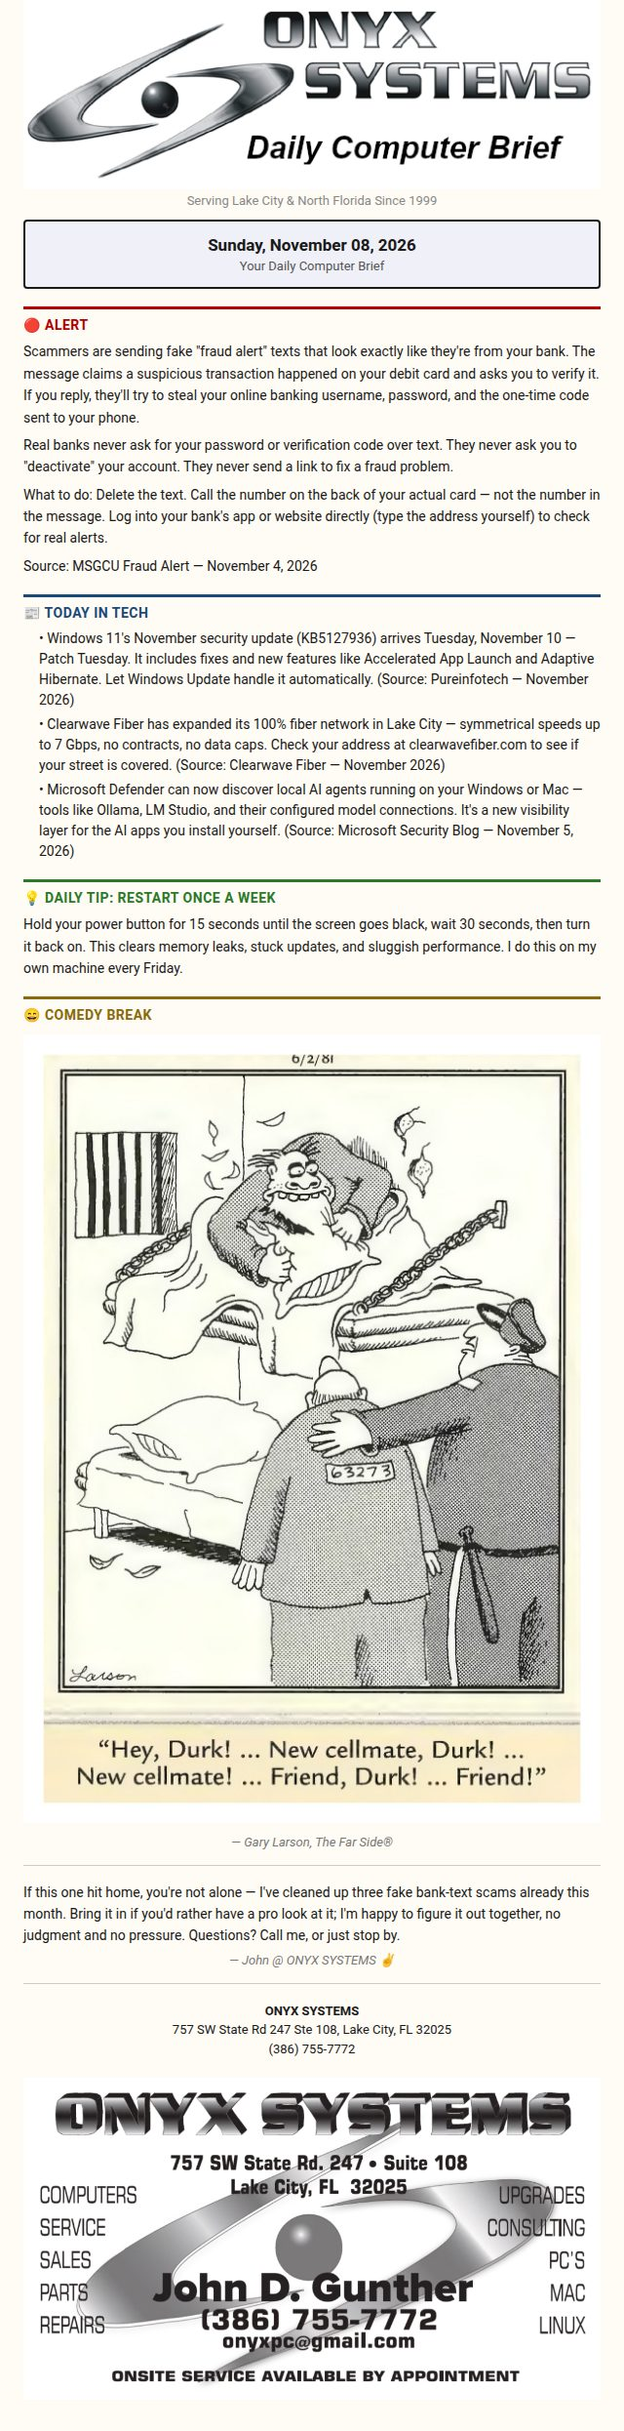
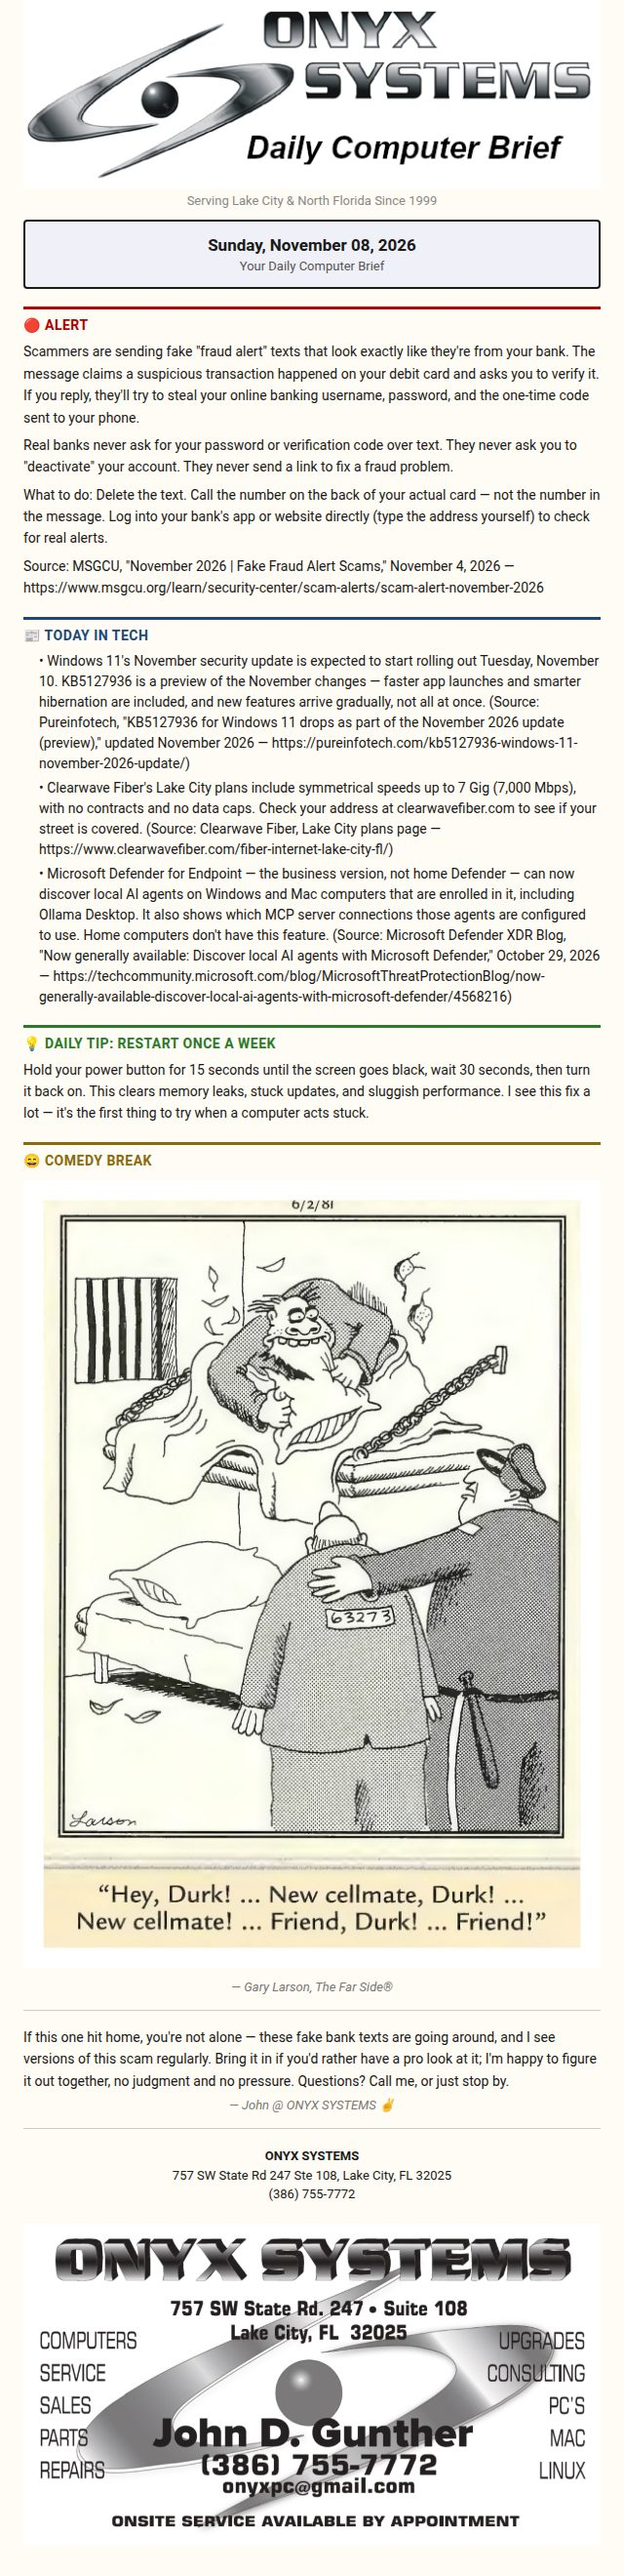
daily: 2026-11-08 brief + news/tips + widgets (+ build stamp)

diff --git a/newsletter.html b/newsletter.html
@@ -32,7 +32,7 @@
   .foot{padding:18px 28px;background:#16161A;color:#C9C2B6;font-size:13px;text-align:center}
   .foot a{color:var(--accent);text-decoration:none}
 </style>
-  <meta name="onyx-build" content="20261108">
+  <meta name="onyx-build" content="20261109">
 </head>
 <body>
 <article class="wrap doc">
@@ -47,19 +47,19 @@
     <p>Scammers are sending fake "fraud alert" texts that look exactly like they're from your bank. The message claims a suspicious transaction happened on your debit card and asks you to verify it. If you reply, they'll try to steal your online banking username, password, and the one-time code sent to your phone.
 Real banks never ask for your password or verification code over text. They never ask you to "deactivate" your account. They never send a link to fix a fraud problem.
 What to do: Delete the text. Call the number on the back of your actual card — not the number in the message. Log into your bank's app or website directly (type the address yourself) to check for real alerts.
-Source: MSGCU Fraud Alert — November 4, 2026</p>
+Source: MSGCU, "November 2026 | Fake Fraud Alert Scams," November 4, 2026 — https://www.msgcu.org/learn/security-center/scam-alerts/scam-alert-november-2026</p>
   </div>
   <div class="section">
     <h2>Today in Tech</h2>
     <ul>
-      <li>Windows 11's November security update (KB5127936) arrives Tuesday, November 10 — Patch Tuesday. It includes fixes and new features like Accelerated App Launch and Adaptive Hibernate. Let Windows Update handle it automatically. (Source: Pureinfotech — November 2026)</li>
-      <li>Clearwave Fiber has expanded its 100% fiber network in Lake City — symmetrical speeds up to 7 Gbps, no contracts, no data caps. Check your address at clearwavefiber.com to see if your street is covered. (Source: Clearwave Fiber — November 2026)</li>
-      <li>Microsoft Defender can now discover local AI agents running on your Windows or Mac — tools like Ollama, LM Studio, and their configured model connections. It's a new visibility layer for the AI apps you install yourself. (Source: Microsoft Security Blog — November 5, 2026)</li>
+      <li>Windows 11's November security update is expected to start rolling out Tuesday, November 10. KB5127936 is a preview of the November changes — faster app launches and smarter hibernation are included, and new features arrive gradually, not all at once. (Source: Pureinfotech, "KB5127936 for Windows 11 drops as part of the November 2026 update (preview)," updated November 2026 — https://pureinfotech.com/kb5127936-windows-11-november-2026-update/)</li>
+      <li>Clearwave Fiber's Lake City plans include symmetrical speeds up to 7 Gig (7,000 Mbps), with no contracts and no data caps. Check your address at clearwavefiber.com to see if your street is covered. (Source: Clearwave Fiber, Lake City plans page — https://www.clearwavefiber.com/fiber-internet-lake-city-fl/)</li>
+      <li>Microsoft Defender for Endpoint — the business version, not home Defender — can now discover local AI agents on Windows and Mac computers that are enrolled in it, including Ollama Desktop. It also shows which MCP server connections those agents are configured to use. Home computers don't have this feature. (Source: Microsoft Defender XDR Blog, "Now generally available: Discover local AI agents with Microsoft Defender," October 29, 2026 — https://techcommunity.microsoft.com/blog/MicrosoftThreatProtectionBlog/now-generally-available-discover-local-ai-agents-with-microsoft-defender/4568216)</li>
     </ul>
   </div>
   <div class="section tip">
     <h2>Daily Tip</h2>
-    <p>Hold your power button for 15 seconds until the screen goes black, wait 30 seconds, then turn it back on. This clears memory leaks, stuck updates, and sluggish performance. I do this on my own machine every Friday.</p>
+    <p>Hold your power button for 15 seconds until the screen goes black, wait 30 seconds, then turn it back on. This clears memory leaks, stuck updates, and sluggish performance. I see this fix a lot — it's the first thing to try when a computer acts stuck.</p>
   </div>
   <div class="section">
     <h2>😄 COMEDY BREAK</h2>

diff --git a/sw.js b/sw.js
@@ -12,7 +12,7 @@
    is fine (SWR self-heals assets), but bump it when you want a clean slate of
    cached images. Keep it in sync with <meta name="onyx-build"> in the pages. */
 
-var CACHE = 'onyx-v20261108';
+var CACHE = 'onyx-v20261109';
 
 self.addEventListener('install', function (e) {
   // Pre-cache the entry page so the site works offline after the first visit.

diff --git a/index.html b/index.html
@@ -844,7 +844,7 @@
   .about{width:100%;max-width:100%;box-sizing:border-box}
 }
 </style>
-  <meta name="onyx-build" content="20261108">
+  <meta name="onyx-build" content="20261109">
 <!-- Google Local Business Schema - Added for Google Ads/Profile Optimization -->
 <script type="application/ld+json">
 {

diff --git a/gallery.html b/gallery.html
@@ -72,7 +72,7 @@
   footer a{color:var(--copper-2)}
   @media (prefers-reduced-motion:reduce){*{scroll-behavior:auto!important}}
 </style>
-  <meta name="onyx-build" content="20261108">
+  <meta name="onyx-build" content="20261109">
 </head>
 <body data-theme="dark">
 <header class="site">

diff --git a/games/index.html b/games/index.html
@@ -167,7 +167,7 @@
   @media (prefers-reduced-motion:reduce){body::after{animation:none}}
 
 </style>
-  <meta name="onyx-build" content="20261108">
+  <meta name="onyx-build" content="20261109">
 </head>
 <body class="cabinet">
 <header class="site">

diff --git a/crossword.html b/crossword.html
@@ -148,7 +148,7 @@
     .xw-list{display:block !important}
   }
 </style>
-  <meta name="onyx-build" content="20261108">
+  <meta name="onyx-build" content="20261109">
 </head>
 <body>
 <div class="xw-app">
